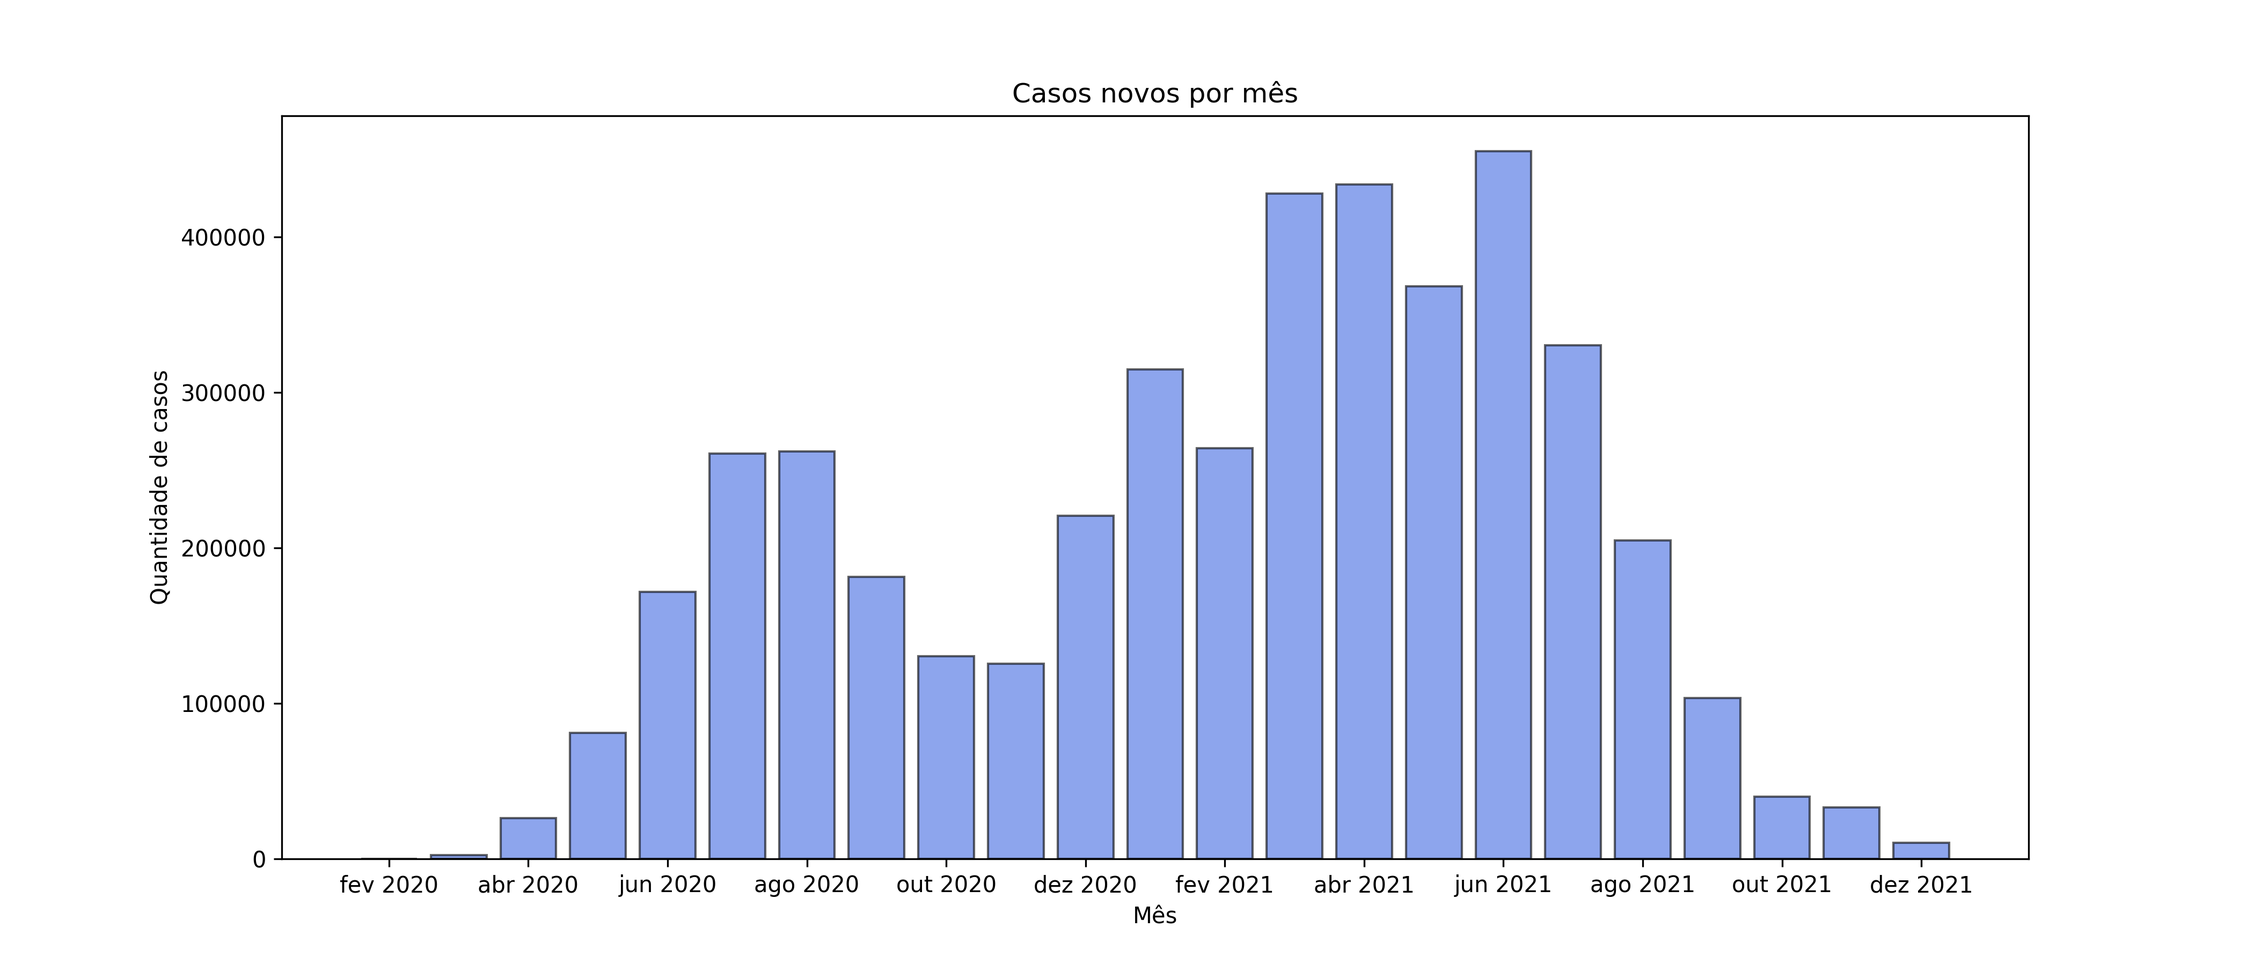
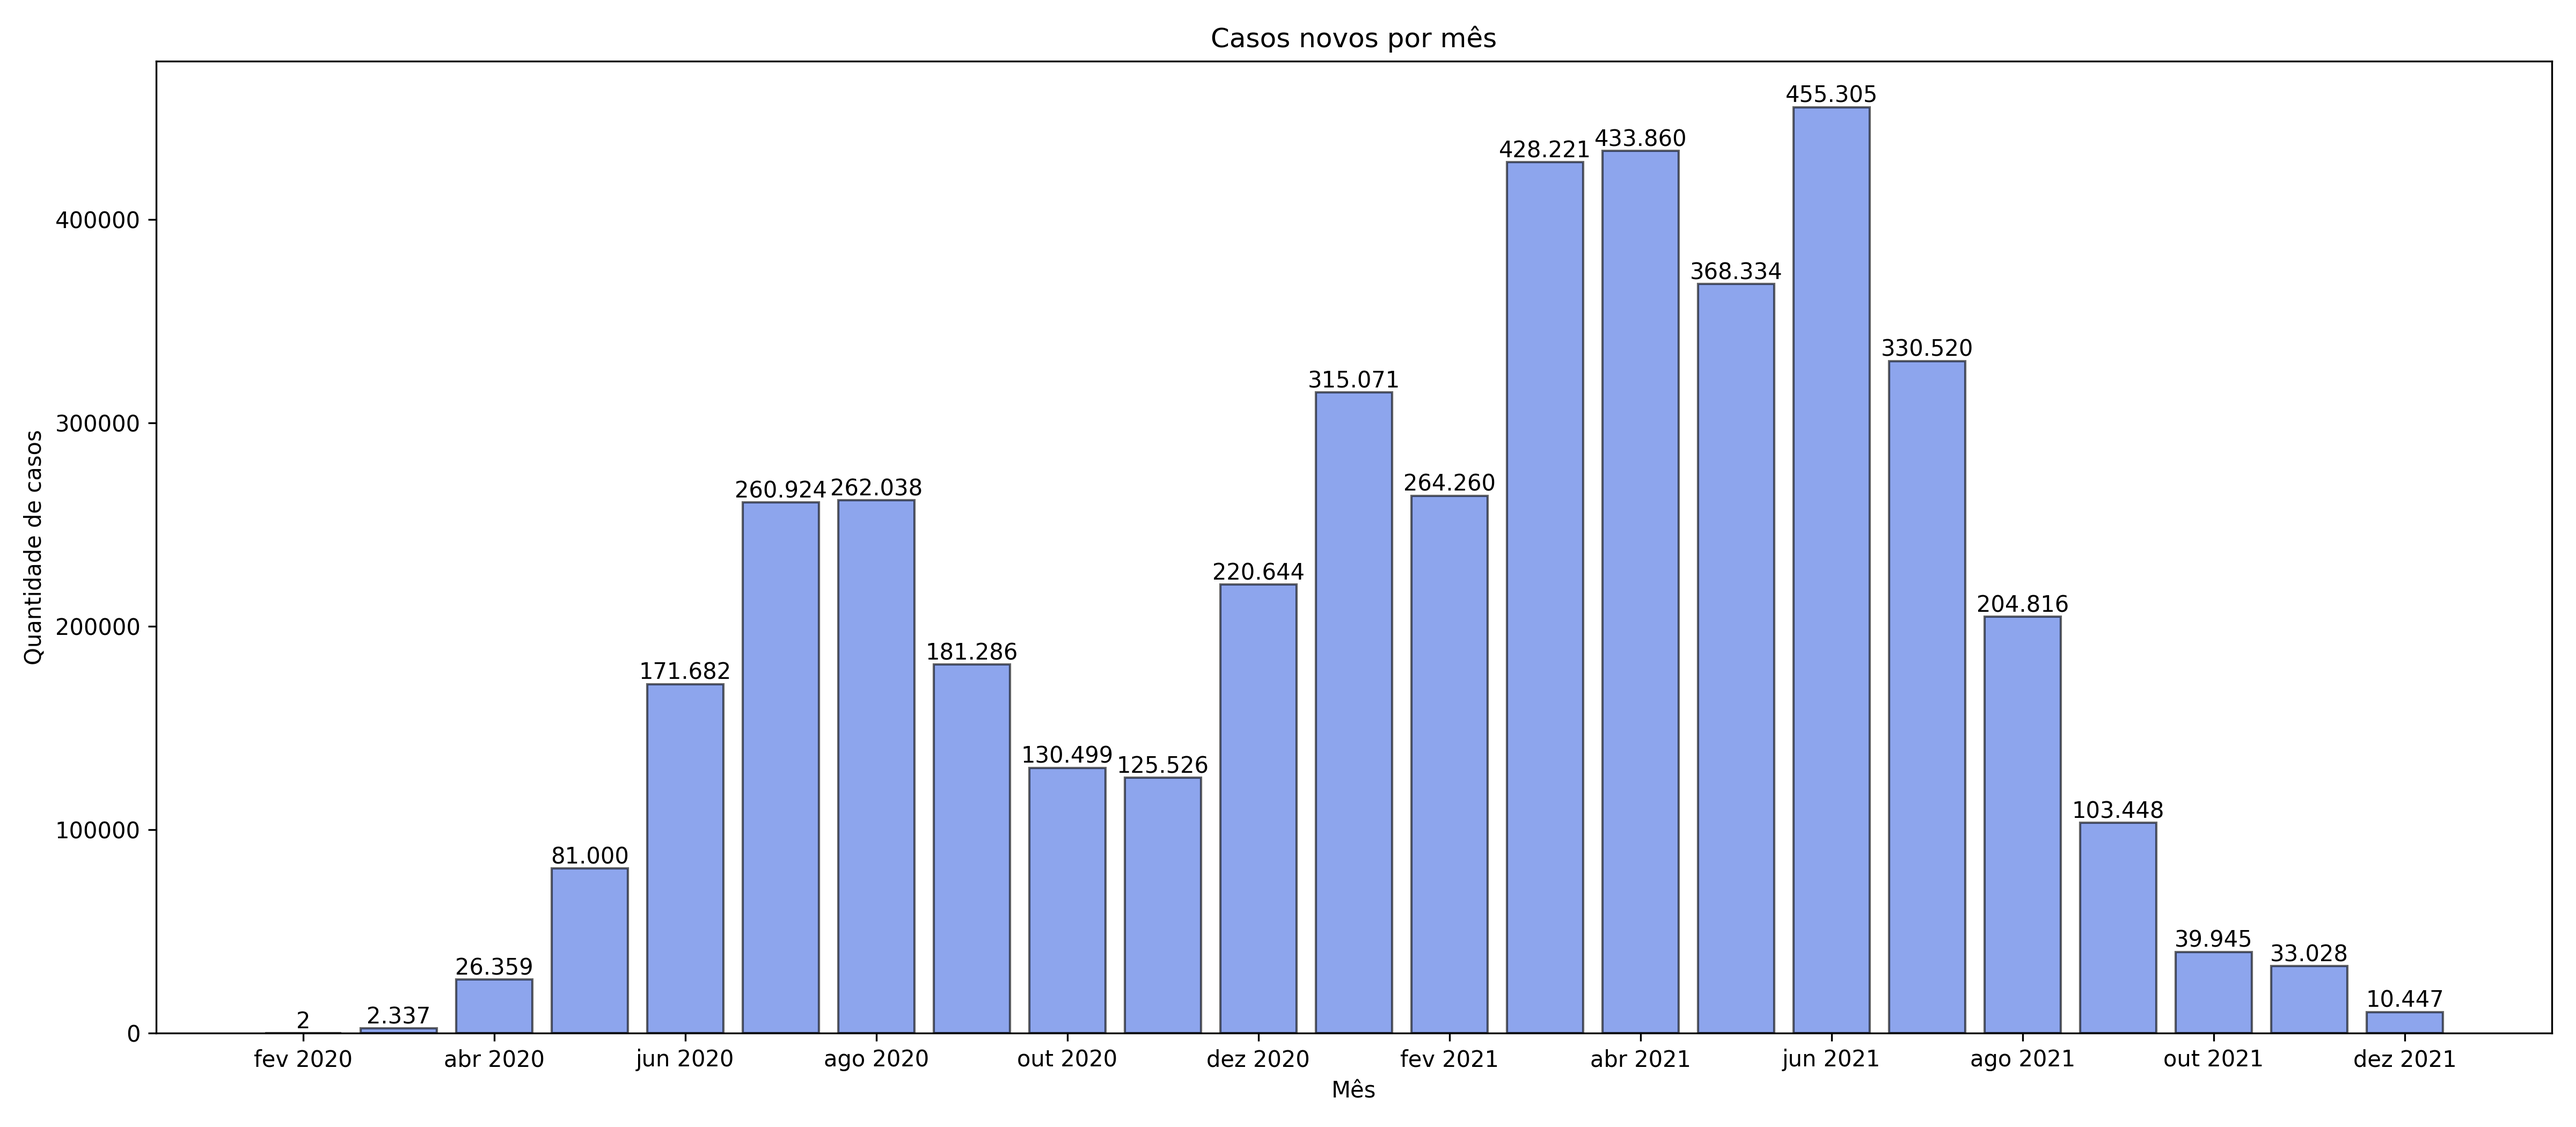
Formatação dos gráficos

diff --git a/dadosCovid.py b/dadosCovid.py
@@ -6,6 +6,15 @@ import numpy as np
 import matplotlib.pyplot as plt
 from fpdf import FPDF
 
+def formataNum(num, sep='.'):
+  return num if len(num) <= 3 else formataNum(num[:-3], sep) + sep + num[-3:]
+
+def adicionaLegendaNasBarras(grafico):
+  for reta in grafico:
+    altura = reta.get_height()
+    largura = reta.get_width()
+    plt.text(reta.get_x() + largura/2, altura, formataNum(str(int(altura))), ha='center', va='bottom')
+
 linkArq = 'https://www.seade.gov.br/wp-content/uploads/coronavirus-files/Dados-covid-19-estado.csv'
 nomeArq = 'dadosCovidEstado.csv'
 
@@ -57,26 +66,24 @@ for i in range(len(meses)):
   obitosMes.append(quantObitos)
   quantObitos = 0
 
-# print(meses)
-# print(casosMes)
-# print(len(meses))
-# print(len(casosMes))
-# print(obitosMes)
-
-plt.figure(figsize=(14, 6))
-plt.bar(meses, casosMes, ec = "k", alpha = .6, color = "royalblue")
+plt.figure(figsize=(16, 7))
+fig1 = plt.bar(meses, casosMes, ec="k", alpha=.6, color="royalblue")
 plt.xticks(np.arange(0, len(meses), 2))
 plt.title('Casos novos por mês')
 plt.xlabel('Mês')
 plt.ylabel('Quantidade de casos')
+plt.tight_layout()
+adicionaLegendaNasBarras(fig1)
 plt.savefig('CasosMes.png', format='png', dpi=300)
 plt.show()
 
-plt.figure(figsize=(14, 6))
-plt.bar(meses, obitosMes, ec = "k", alpha = .6, color = "royalblue")
+plt.figure(figsize=(16, 7))
+fig2 = plt.bar(meses, obitosMes, ec="k", alpha=.6, color="royalblue")
 plt.xticks(np.arange(0, len(meses), 2))
 plt.title('Óbitos por mês')
 plt.xlabel('Mês')
 plt.ylabel('Quantidade de óbitos')
+plt.tight_layout()
+adicionaLegendaNasBarras(fig2)
 plt.savefig('ObitosMes.png', format='png', dpi=300)
 plt.show()
